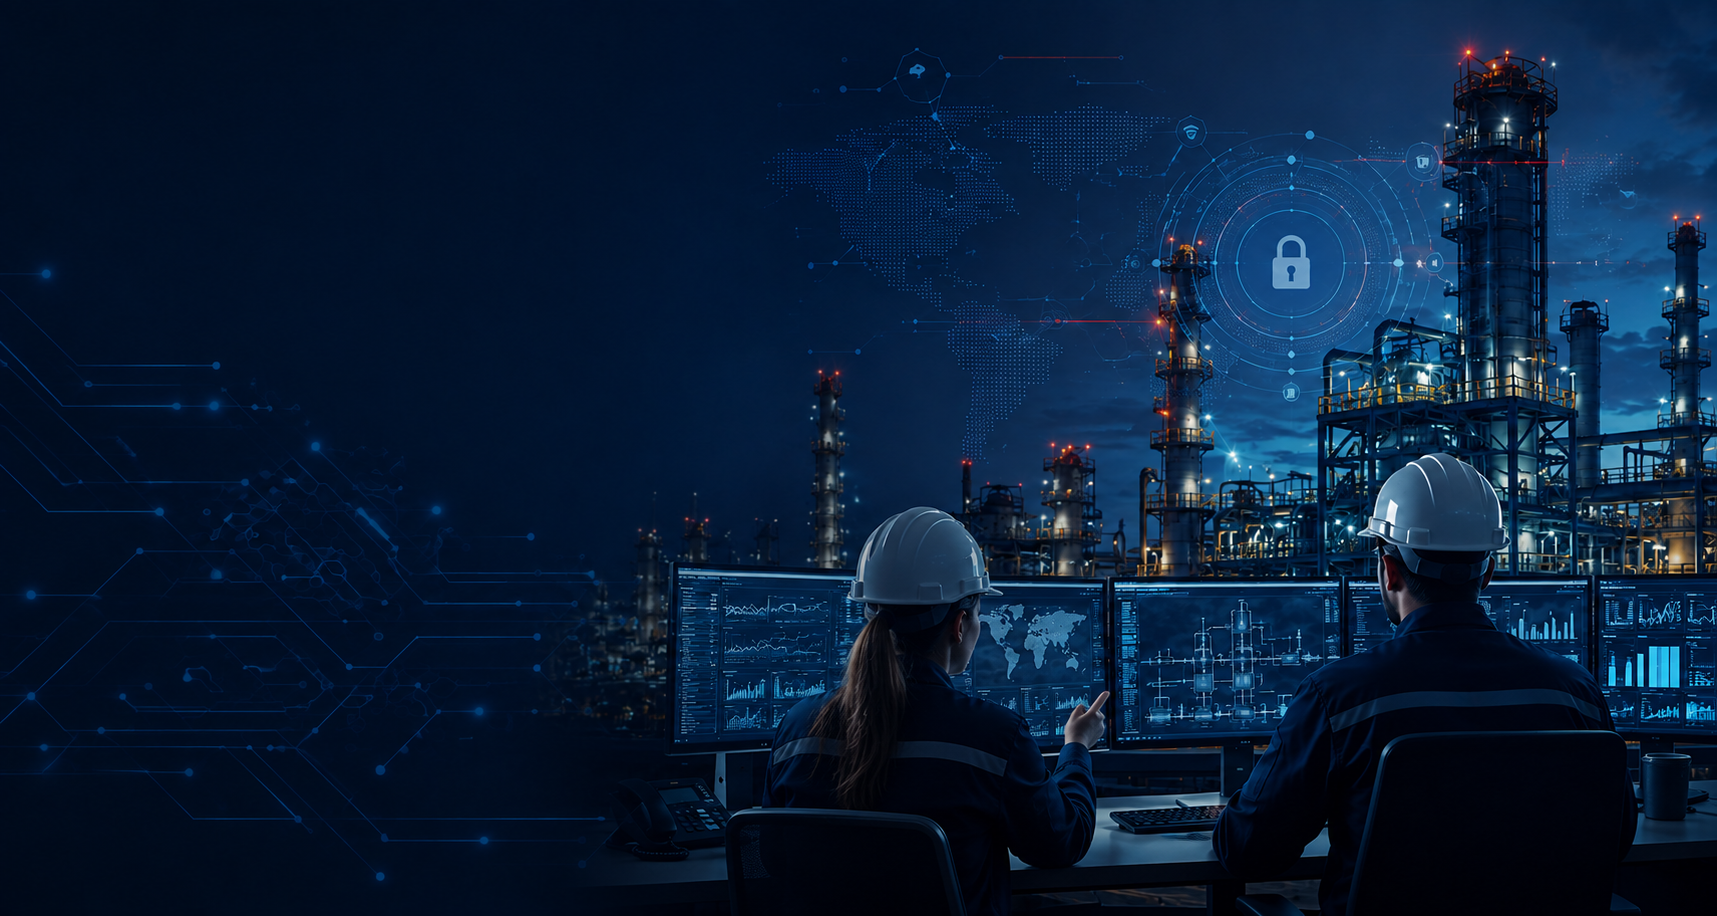
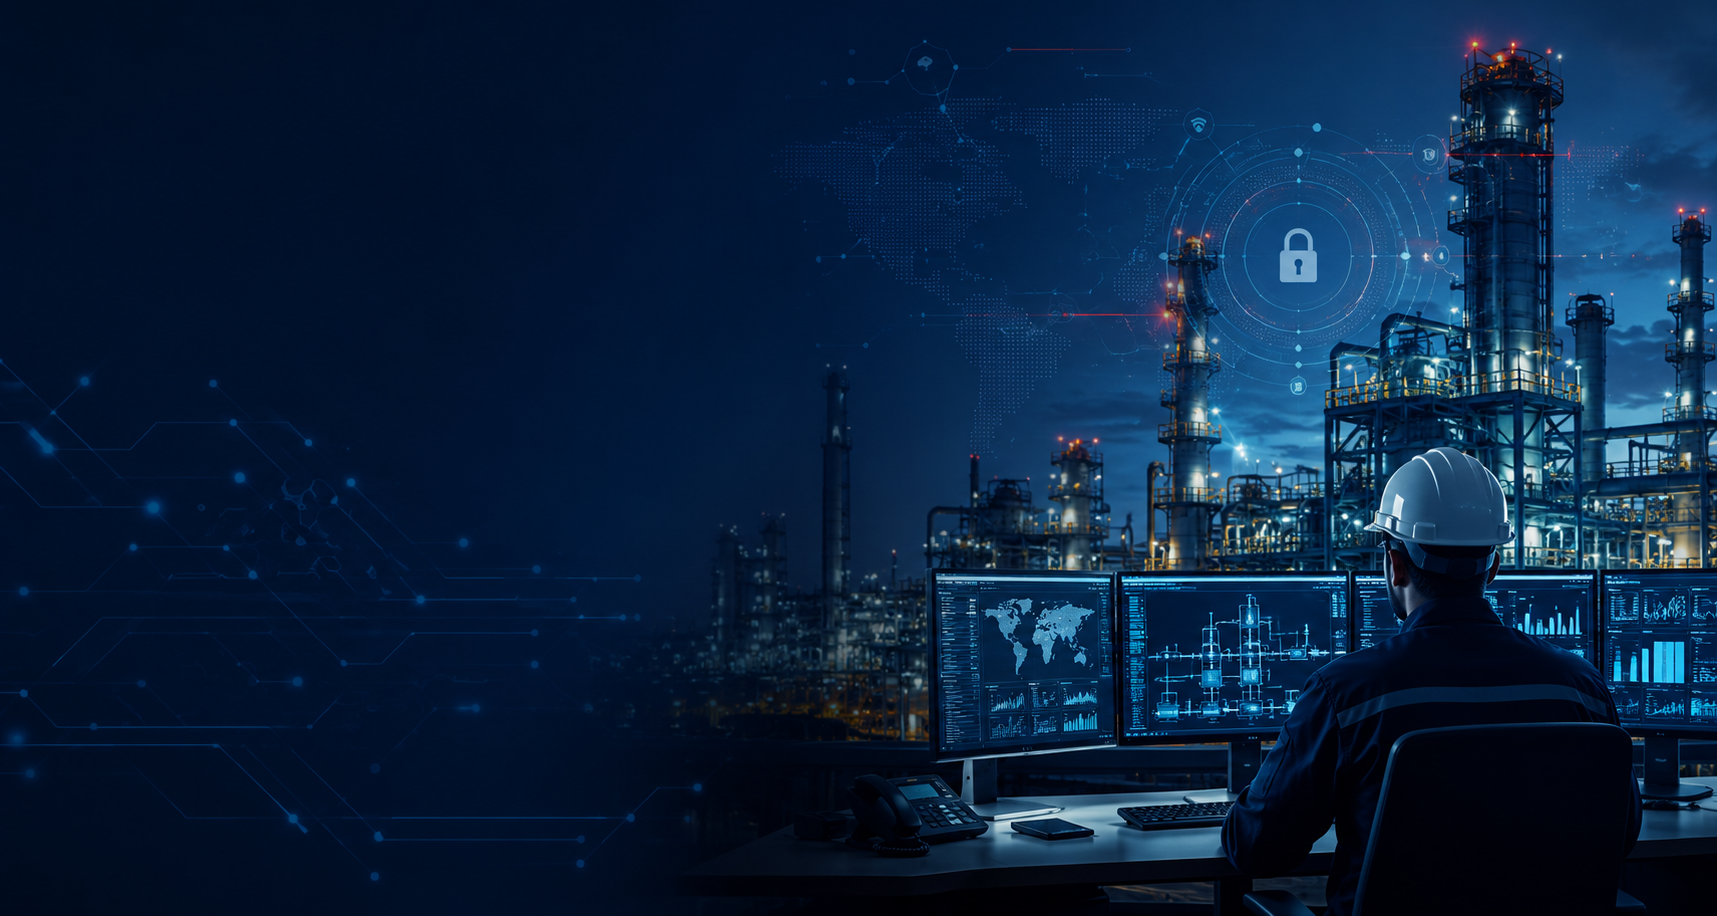
ahora si hay cambio

diff --git a/styles.css b/styles.css
@@ -289,7 +289,7 @@ HEADER TABLET
             rgba(4,18,44,.15) 65%,
             rgba(4,18,44,0) 100%
         ),
-        url("imagenes/Portada.png");
+        url("imagenes/Portada.2.png");
 
     background-size:cover;
     background-position:center right;
